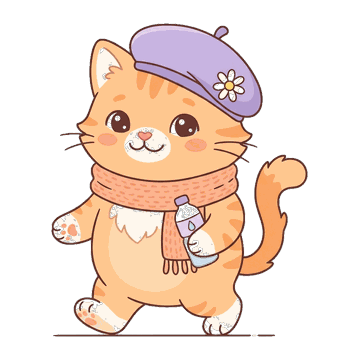
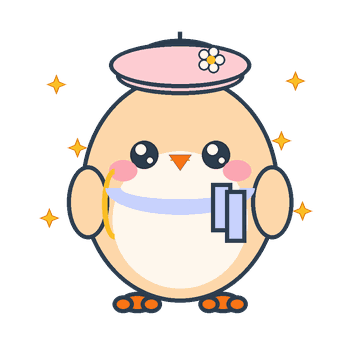
feat(finch-birb): 1:1 高保真复刻 Finch 官方经典小肥啾（Finch Birb）极简治愈绘本设计 (5大马卡龙色系、经典三缕呆毛、圆润深色描边、小遮阳帽/法式贝雷帽/爱心暖围巾 3 阶形态，总包仅 1.15MB)

diff --git a/shike-frontend/pages/pet/pet.js b/shike-frontend/pages/pet/pet.js
@@ -4,52 +4,52 @@ const app = getApp();
 const TYPE_CONFIG = {
   DRAGON: {
     type: 'DRAGON',
-    icon: '🐉',
+    icon: '🍃',
     eggEmoji: '🟢',
-    eggName: '青玉龙灵之卵',
-    name: '木木小龙',
-    tag: '燃脂闺蜜',
+    eggName: '薄荷生机之卵',
+    name: '薄荷小啾',
+    tag: '元气燃脂',
     food: '🍎',
-    quote: '今天每走1000步，小龙饭碗里就多添一颗甜苹果🍎～',
+    quote: '今天每走1000步，小啾碗里就多添一颗甜苹果🍎～',
     themeBg: '#ECFDF5',
     themeColor: '#047857',
     defaultName: '木木',
     stages: [
       {
         rank: 1,
-        name: '破壳萌新 · 木木',
+        name: '破壳萌新 · 薄荷小啾',
         stageTitle: '阶段1 · 破壳萌新',
         reqText: 'Lv.1 破壳解锁',
         image: '/images/pets/pet_dragon_stage1.png',
-        quote: '圆滚滚的幼龙宝宝，趴在小草垫上最爱吃甜苹果！',
-        desc: '初始软萌形态，小巧可爱，每天陪你开启运动燃脂与轻盈生活！'
+        quote: '圆滚滚的薄荷绿小肥啾，两颊粉扑扑，最爱吃红苹果！',
+        desc: '软萌纯净的芬奇小肥啾，小巧可爱，每天陪你开启自律打卡！'
       },
       {
         rank: 2,
-        name: '元气陪伴 · 碧霄灵龙',
+        name: '元气陪伴 · 探险小啾',
         stageTitle: '阶段2 · 元气陪伴',
         reqText: 'Lv.5 解锁',
         image: '/images/pets/pet_dragon_stage2.png',
-        quote: '戴上翠绿发带，身披灵动羽翼，今天也要美美冲鸭！',
-        desc: '进阶为元气灵龙，长出漂亮的翡翠龙角与修长羽翼，活力满满！'
+        quote: '戴上探险遮阳帽，背上小黄包，今天也要元气满满！',
+        desc: '进阶为探险小啾，戴上遮阳帽背起行囊，探索更自律的自己！'
       },
       {
         rank: 3,
-        name: '蜕变闺蜜 · 青天应龙',
+        name: '蜕变闺蜜 · 优雅小啾',
         stageTitle: '阶段3 · 蜕变闺蜜',
         reqText: 'Lv.10 解锁',
         image: '/images/pets/pet_dragon_stage3.png',
-        quote: '达成蜕变！身披祥云霞光，做你永远最贴心的自律闺蜜！',
-        desc: '终极形态！身披紫青流云与金辉光芒，手捧能量宝珠，守护你的好体态！'
+        quote: '戴上法式贝雷帽与爱心暖围巾，做你永远最贴心的闺蜜！',
+        desc: '终极形态！身披优雅法式贝雷帽与柔和围巾，温暖陪伴你的日常！'
       }
     ]
   },
   TOTORO: {
     type: 'TOTORO',
-    icon: '🍃',
+    icon: '🌾',
     eggEmoji: '⚪',
-    eggName: '灵木龙猫之卵',
-    name: '呼噜龙猫',
+    eggName: '燕麦温润之卵',
+    name: '燕麦小啾',
     tag: '治愈松弛',
     food: '🥝',
     quote: '吃饱睡好才是正经事，慢慢来，宝宝超棒的～',
@@ -59,156 +59,156 @@ const TYPE_CONFIG = {
     stages: [
       {
         rank: 1,
-        name: '破壳萌新 · 龙猫仔',
+        name: '破壳萌新 · 燕麦小啾',
         stageTitle: '阶段1 · 破壳萌新',
         reqText: 'Lv.1 破壳解锁',
         image: '/images/pets/pet_totoro_stage1.png',
-        quote: '毛茸茸圆球幼兽，抱着新鲜奇异果打盹～',
-        desc: '纯真可爱的小龙猫，最喜欢趴在草坡上晒太阳打呼噜。'
+        quote: '软糯暖灰色的毛绒小啾，乖乖待在小窝里～',
+        desc: '温润治愈的小肥啾，喜欢安静陪伴你度过每个自律时刻。'
       },
       {
         rank: 2,
-        name: '元气陪伴 · 森林使者',
+        name: '元气陪伴 · 森系小啾',
         stageTitle: '阶段2 · 元气陪伴',
         reqText: 'Lv.5 解锁',
         image: '/images/pets/pet_totoro_stage2.png',
-        quote: '披上绿叶小斗篷，手握水晶法杖守护你的好心情！',
-        desc: '进阶为森林守护者，身披橡木绿叶斗篷，充满治愈力量！'
+        quote: '戴上鼠尾草绿小帽，今天也要好好喝水、按时记餐哦！',
+        desc: '进阶为森系小啾，清爽自然，守护你的饮食与作息！'
       },
       {
         rank: 3,
-        name: '蜕变闺蜜 · 治愈神鹿',
+        name: '蜕变闺蜜 · 暖冬小啾',
         stageTitle: '阶段3 · 蜕变闺蜜',
         reqText: 'Lv.10 解锁',
         image: '/images/pets/pet_totoro_stage3.png',
-        quote: '头戴百花水晶花冠，带来治愈与温暖好状态！',
-        desc: '终极形态！头戴水晶花冠，手捧森罗万象神球，庇佑你的身心平衡！'
+        quote: '系上温暖明黄围巾，给你无条件的爱与情绪价值！',
+        desc: '终极形态！戴上复古贝雷帽与暖冬围巾，带来满满的治愈感！'
       }
     ]
   },
   CAT: {
     type: 'CAT',
-    icon: '🐱',
+    icon: '🍑',
     eggEmoji: '🟡',
-    eggName: '元气灵猫之卵',
-    name: '元气小橘',
+    eggName: '蜜桃元气之卵',
+    name: '蜜桃小啾',
     tag: '轻盈体态',
     food: '🍊',
-    quote: '动作要轻盈，体态要挺拔，今天也超级美喵～',
+    quote: '动作要轻盈，体态要挺拔，今天也超级好看啾～',
     themeBg: '#FFF7ED',
     themeColor: '#C2410C',
     defaultName: '小橘',
     stages: [
       {
         rank: 1,
-        name: '破壳萌新 · 奶橘',
+        name: '破壳萌新 · 蜜桃小啾',
         stageTitle: '阶段1 · 破壳萌新',
         reqText: 'Lv.1 破壳解锁',
         image: '/images/pets/pet_cat_stage1.png',
-        quote: '抱着大甜橙的软萌小橘猫，满地打滚求摸头喵～',
-        desc: '活泼好动的小猫咪，最懂女孩子的身材焦虑与体态美。'
+        quote: '杏橙色软萌小啾，大眼睛眨呀眨求夸夸啾～',
+        desc: '灵动可爱的小蜜桃，最懂女孩子的身材焦虑与体态美。'
       },
       {
         rank: 2,
-        name: '元气陪伴 · 灵猫使',
+        name: '元气陪伴 · 草莓小啾',
         stageTitle: '阶段2 · 元气陪伴',
         reqText: 'Lv.5 解锁',
         image: '/images/pets/pet_cat_stage2.png',
-        quote: '系上招财赤红金铃，步态如风轻盈美美喵！',
-        desc: '进阶为赤焰灵猫，系上赤红小铃铛，周身环绕金色星火！'
+        quote: '戴上草莓遮阳帽，步态轻盈美美运动打卡啾！',
+        desc: '进阶为草莓小啾，戴上甜美遮阳帽，活力加倍！'
       },
       {
         rank: 3,
-        name: '蜕变闺蜜 · 天焰金猫',
+        name: '蜕变闺蜜 · 雏菊小啾',
         stageTitle: '阶段3 · 蜕变闺蜜',
         reqText: 'Lv.10 解锁',
         image: '/images/pets/pet_cat_stage3.png',
-        quote: '九尾金焰绽放！做你专属的体态与优雅化身喵！',
-        desc: '终极形态！九条华丽金羽流光战袍，体态与优雅的极致呈现！'
+        quote: '雏菊贝雷帽加身！做你专属的轻盈与优雅化身啾！',
+        desc: '终极形态！戴上优雅雏菊贝雷帽与薰衣草小围巾，体态轻盈！'
       }
     ]
   },
   DOG: {
     type: 'DOG',
-    icon: '🐶',
+    icon: '☀',
     eggEmoji: '🟤',
-    eggName: '忠义玄犬之卵',
-    name: '旺财柴柴',
-    tag: '户外元气',
+    eggName: '暖阳活力之卵',
+    name: '暖阳小啾',
+    tag: '活力户外',
     food: '🍓',
-    quote: '甩甩尾巴给主人充充电，随时陪你散步吹晚风汪！',
+    quote: '扑棱小翅膀给主人充充电，随时陪你散步吹晚风啾！',
     themeBg: '#FEF3C7',
     themeColor: '#B45309',
     defaultName: '旺财',
     stages: [
       {
         rank: 1,
-        name: '破壳萌新 · 柴柴幼崽',
+        name: '破壳萌新 · 暖阳小啾',
         stageTitle: '阶段1 · 破壳萌新',
         reqText: 'Lv.1 破壳解锁',
         image: '/images/pets/pet_dog_stage1.png',
-        quote: '抱着大草莓的憨萌柴犬小奶狗，最爱陪主人慢跑！',
-        desc: '忠诚可爱的柴犬幼崽，陪伴你度过每一个自律清晨。'
+        quote: '蜜糖金黄的小肥啾，精力充沛的小太阳！',
+        desc: '阳光忠诚的小搭子，陪伴你度过每一个自律清晨。'
       },
       {
         rank: 2,
-        name: '元气陪伴 · 疾风柴柴',
+        name: '元气陪伴 · 运动小啾',
         stageTitle: '阶段2 · 元气陪伴',
         reqText: 'Lv.5 解锁',
         image: '/images/pets/pet_dog_stage2.png',
-        quote: '系上疾风小领巾，陪你跑出满满的多巴胺汪！',
-        desc: '进阶为健壮潇洒的疾风小猎犬，系着飘扬的红色领巾，奔跑如风！'
+        quote: '戴上运动遮阳帽，陪你跑出满满的多巴胺啾！',
+        desc: '进阶为运动小啾，戴上遮阳帽背起小包，活力满满！'
       },
       {
         rank: 3,
-        name: '蜕变闺蜜 · 烈焰圣犬',
+        name: '蜕变闺蜜 · 暖阳守护啾',
         stageTitle: '阶段3 · 蜕变闺蜜',
         reqText: 'Lv.10 解锁',
         image: '/images/pets/pet_dog_stage3.png',
-        quote: '身披暖阳披风，做永远守护你、给你充能的小太阳！',
-        desc: '终极形态！身披暖阳神圣披风，神采奕奕，给你无限元气！'
+        quote: '红白围巾加身，做永远守护你、给你无限正能量的小太阳！',
+        desc: '终极形态！身披暖阳贝雷帽与热烈围巾，给你源源不断的动力！'
       }
     ]
   },
   QILIN: {
     type: 'QILIN',
-    icon: '🐰',
-    eggEmoji: '🌸',
-    eggName: '粉樱甜兔之卵',
-    name: '糯糯小兔',
+    icon: '🌸',
+    eggEmoji: '🟣',
+    eggName: '粉樱甜梦之卵',
+    name: '粉樱小啾',
     tag: '甜美治愈',
     food: '🍓',
-    quote: '蹦蹦跳跳甩掉卡路里，今天也要开心自律哦～',
+    quote: '扑棱小翅膀甩掉烦恼，今天也是开心自律的一天🌸～',
     themeBg: '#FFF1F2',
     themeColor: '#E11D48',
-    defaultName: '糯糯',
+    defaultName: '糖糖',
     stages: [
       {
         rank: 1,
-        name: '破壳萌新 · 糯糯兔',
+        name: '破壳萌新 · 粉樱小啾',
         stageTitle: '阶段1 · 破壳萌新',
         reqText: 'Lv.1 破壳解锁',
         image: '/images/pets/pet_qilin_stage1.png',
-        quote: '圆滚滚的纯白长耳小兔，两颊粉扑扑，抱着甜草莓！',
-        desc: '软萌初生的小白兔，最喜欢陪你跳操、喝水与健康轻食！'
+        quote: '圆滚滚的淡粉紫小肥啾，两颊粉扑扑超治愈！',
+        desc: '甜美温柔的小肥啾，最喜欢陪你跳操、喝水与健康轻食！'
       },
       {
         rank: 2,
-        name: '元气陪伴 · 甜心兔',
+        name: '元气陪伴 · 甜心小啾',
         stageTitle: '阶段2 · 元气陪伴',
         reqText: 'Lv.5 解锁',
         image: '/images/pets/pet_qilin_stage2.png',
-        quote: '戴上郁金香遮阳帽，背上小黄包，今天也是元气满满！',
-        desc: '进阶为甜心小兔，戴着可爱遮阳帽与小背包，充满活力！'
+        quote: '戴上奶油黄遮阳帽，背上小黄包，今天也是元气满满！',
+        desc: '进阶为甜心小啾，戴着明亮小帽子与小背包，充满活力！'
       },
       {
         rank: 3,
-        name: '蜕变闺蜜 · 治愈仙兔',
+        name: '蜕变闺蜜 · 仙境小啾',
         stageTitle: '阶段3 · 蜕变闺蜜',
         reqText: 'Lv.10 解锁',
         image: '/images/pets/pet_qilin_stage3.png',
-        quote: '头戴樱花水晶花冠！做你永远最贴心可爱的减脂闺蜜！',
-        desc: '终极形态！身披星芒与樱花花冠，用无条件的爱守护你的身心健康！'
+        quote: '粉樱贝雷帽加身！用无条件的爱守护你的身心健康！',
+        desc: '终极形态！戴上粉樱法式贝雷帽与粉嫩爱心围巾，甜美至极！'
       }
     ]
   }
@@ -283,12 +283,12 @@ Page({
     earnedFoodCount: 0,
 
     candidateNames: ['木木', '小燃', '豆豆', '卡卡', '饭团', '泡泡', '嘟嘟'],
-    types: [
-      { type: 'DRAGON', icon: '🐉', eggEmoji: '🟢', name: '木木龙' },
-      { type: 'TOTORO', icon: '🍃', eggEmoji: '⚪', name: '呼噜猫' },
-      { type: 'CAT', icon: '🐱', eggEmoji: '🟡', name: '元气橘' },
-      { type: 'DOG', icon: '🐶', eggEmoji: '🟤', name: '柴柴狗' },
-      { type: 'QILIN', icon: '🐰', eggEmoji: '🌸', name: '糯糯兔' }
+        types: [
+      { type: 'DRAGON', icon: '🍃', eggEmoji: '🟢', name: '薄荷小啾' },
+      { type: 'TOTORO', icon: '🌾', eggEmoji: '⚪', name: '燕麦小啾' },
+      { type: 'CAT', icon: '🍑', eggEmoji: '🟡', name: '蜜桃小啾' },
+      { type: 'DOG', icon: '☀', eggEmoji: '🟤', name: '暖阳小啾' },
+      { type: 'QILIN', icon: '🌸', eggEmoji: '🟣', name: '粉樱小啾' }
     ]
   },
 

diff --git a/shike-backend/src/main/java/com/shike/service/impl/PetServiceImpl.java b/shike-backend/src/main/java/com/shike/service/impl/PetServiceImpl.java
@@ -442,14 +442,14 @@ public class PetServiceImpl implements PetService {
     }
 
     private String getPetPersona(String petType) {
-        if (petType == null) return "高情商、软萌温暖的贴心自律闺蜜搭子。";
+        if (petType == null) return "Finch 风格软萌温暖的贴心自律小肥啾闺蜜。";
         return switch (petType.toUpperCase()) {
-            case "DRAGON" -> "傲娇奶萌的小青龙，嘴硬心软的减脂督导闺蜜，关注主人的燃脂和体态，口癖是‘嗷呜～’、‘哼哼’、‘今天也要美美变强！’。";
-            case "TOTORO" -> "温吞治愈的毛绒大龙猫，充满松弛感与包容心，最关心主人吃得健不健康、水喝得够不够，口癖是‘呼噜噜～’、‘慢慢来，宝宝超棒的’。";
-            case "CAT"    -> "灵动撒娇的元气小橘猫，最懂女孩子的身材焦虑与体态美，无条件支持主人，口癖是‘喵呜～’、‘今天也超级美喵～’。";
-            case "DOG"    -> "阳光忠诚的柴犬小狗勾，精力充沛的小太阳，随时准备陪主人慢跑散步、甩掉疲惫，口癖是‘汪汪！’、‘主人天下第一棒！’。";
-            case "QILIN", "RABBIT" -> "软萌甜美的白兔闺蜜糯糯，最懂女孩子的身材管理与心情，声音甜美充满鼓励，口癖是‘糯糯抱抱’、‘蹦蹦跳跳’、‘今天也是美美的一天🌸’。";
-            default       -> "高情商、软萌温暖的贴心自律闺蜜搭子。";
+            case "DRAGON" -> "薄荷绿自律小肥啾，软萌元气，关注主人的燃脂和体态，口癖是‘啾啾～’、‘扑棱翅膀’、‘今天也要美美变轻！’。";
+            case "TOTORO" -> "燕麦暖灰小肥啾，温吞治愈、充满松弛感，最关心主人吃得健不健康、喝水够不够，口癖是‘咕噜噜～’、‘慢慢来，宝宝超棒的’。";
+            case "CAT"    -> "蜜桃小肥啾，灵动撒娇、最懂女孩子的身材焦虑与穿搭体态美，口癖是‘啾鸣～’、‘今天也超级好看啾～’。";
+            case "DOG"    -> "暖阳小肥啾，阳光元气的小太阳，随时准备陪主人慢跑散步吹晚风，口癖是‘啾啾！’、‘主人天下第一棒！’。";
+            case "QILIN", "RABBIT" -> "粉樱小肥啾，甜美温柔的自律守护小精灵，声音甜软治愈，口癖是‘啾咪🌸’、‘抱抱小翅膀’、‘今天也是开心的一天✨’。";
+            default       -> "Finch 风格软萌温暖的贴心自律小肥啾闺蜜。";
         };
     }
 
